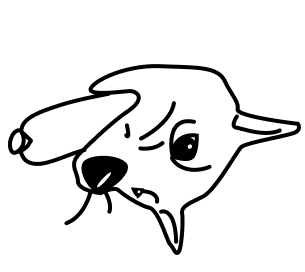
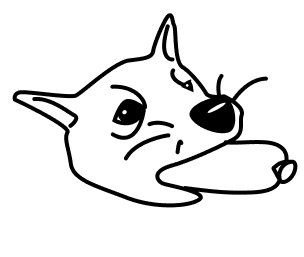
working sausages v2

Changed region(s): [[0.0296, 0.0311, 1.0, 0.9339], [0.2072, 0.8093, 0.2368, 0.8405]]

diff --git a/src/components/Saucisse.js b/src/components/Saucisse.js
@@ -17,7 +17,8 @@ export function Saucisse() {
         Bodies = Matter.Bodies,
         Render = Matter.Render,
         Vertices = Matter.Vertices,
-        Common = Matter.Common
+        Common = Matter.Common,
+        Events = Matter.Events
 
     Common.setDecomp(require("poly-decomp"))
 
@@ -45,15 +46,102 @@ export function Saucisse() {
         Matter.Runner.run(engine)
         Matter.Render.run(render)
 
-        var group = Body.nextGroup(true)
+        // var group = Body.nextGroup(true)
 
-        var hongery = Bodies.rectangle(200, 200, 140, 160, {
+        // var hongery = Bodies.rectangle(200, 200, 140, 160, {
+        //     isStatic: false,
+
+        //     render: {
+        //         sprite: {
+        //             yOffset: -0.02,
+        //             // xOffset: 0.241,
+        //             xScale: 0.5,
+        //             yScale: 0.5,
+        //             texture: doggo,
+        //         },
+        //     },
+        // })
+
+        // var ropeA = Composites.stack(-1200, 0, 16, 1, 1, 1, function (x, y) {
+        //     return Bodies.rectangle(-1200, y, 109, 100, {
+        //         collisionFilter: { group: group },
+        //         frictionAir: 0.05,
+
+        //         friction: 0.7,
+
+        //         density: 0.004,
+        //         render: {
+        //             sprite: {
+        //                 yOffset: 0.25,
+        //                 xScale: 0.5,
+        //                 yScale: 0.5,
+        //                 texture: sausage,
+        //             },
+        //         },
+        //     })
+        // })
+
+        // ropeA = Matter.Composite.add(ropeA, hongery)
+
+        // Composites.chain(ropeA, 0.5, 0, -0.5, 0, {
+        //     stiffness: 0.9,
+        //     length: 0,
+        //     render: { type: "line", strokeStyle: "#000", lineWidth: 2 },
+        // })
+
+        // Composite.add(world, [
+        //     ropeA,
+        //     // Constraint.create({
+        //     //     bodyB: ropeA.bodies[0],
+        //     //     pointA: { x: 1250, y: 700 },
+        //     //     length: 0,
+        //     //     stiffness: 0.6,
+        //     //     render: {
+        //     //         visible: false,
+        //     //     },
+        //     // }),
+        //     // Constraint.create({
+        //     //     bodyB: ropeA.bodies[ropeA.bodies.length - 1],
+        //     //     pointA: { x: 200, y: 0 },
+        //     //     length: 0,
+        //     //     stiffness: 0.6,
+        //     //     render: {
+        //     //         visible: false,
+        //     //     },
+        //     // }),
+        //     Constraint.create({
+        //         pointA: { x: 1250, y: 700 },
+        //         bodyB: ropeA.bodies[0],
+        //         pointB: { x: 25, y: 0 },
+        //         length: 2,
+        //         stiffness: 0.2,
+        //         render: {
+        //             visible: false,
+        //         },
+        //     }),
+        //     Constraint.create({
+        //         frictionAir: 0.07,
+        //         density: 0.004,
+        //         pointA: { x: 200, y: -70 },
+        //         bodyB: ropeA.bodies[ropeA.bodies.length - 1],
+        //         pointB: { x: -20, y: 0 },
+        //         length: 0.01,
+        //         stiffness: 0.9,
+        //         render: {
+        //             visible: false,
+        //         },
+        //     }),
+        // ])
+
+        // engine.timing.timeScale = 0.01
+
+        var hongery = Bodies.rectangle(0, 0, 200, 160, {
             isStatic: false,
 
             render: {
                 sprite: {
-                    yOffset: -0.02,
-                    // xOffset: 0.241,
+                    yOffset: 0.16,
+                    xOffset: 0.075,
                     xScale: 0.5,
                     yScale: 0.5,
                     texture: doggo,
@@ -61,71 +149,51 @@ export function Saucisse() {
             },
         })
 
-        var ropeA = Composites.stack(-900, 250, 16, 1, 1, 1, function (x, y) {
-            return Bodies.rectangle(x, y, 109, 53, {
+        var group = Body.nextGroup(true)
+
+        var bridge = Composites.stack(150, 290, 16, 1, 0, 0, function (x, y) {
+            return Bodies.rectangle(x, y, 180, 300, {
                 collisionFilter: { group: group },
+                density: 0.005,
                 frictionAir: 0.05,
-
-                friction: 0.7,
-
-                density: 0.004,
                 render: {
                     sprite: {
-                        yOffset: 0.25,
-                        xScale: 0.5,
+                        yOffset: -0.05,
                         yScale: 0.5,
+                        xScale: 0.5,
                         texture: sausage,
                     },
                 },
             })
         })
 
-        ropeA = Matter.Composite.add(ropeA, hongery)
+        bridge.bodies.unshift(hongery)
 
-        Composites.chain(ropeA, 0.5, 0, -0.5, 0, {
+        Composites.chain(bridge, 0.3, 0, -0.3, 0, {
             stiffness: 0.9,
             length: 0,
             render: { type: "line", strokeStyle: "#000", lineWidth: 2 },
         })
 
         Composite.add(world, [
-            ropeA,
-            // Constraint.create({
-            //     bodyB: ropeA.bodies[0],
-            //     pointA: { x: 1250, y: 700 },
-            //     length: 0,
-            //     stiffness: 0.6,
-            //     render: {
-            //         visible: false,
-            //     },
-            // }),
-            // Constraint.create({
-            //     bodyB: ropeA.bodies[ropeA.bodies.length - 1],
-            //     pointA: { x: 200, y: 0 },
-            //     length: 0,
-            //     stiffness: 0.6,
-            //     render: {
-            //         visible: false,
-            //     },
-            // }),
+            bridge,
+
             Constraint.create({
-                pointA: { x: 1250, y: 700 },
-                bodyB: ropeA.bodies[0],
+                pointA: { x: 140, y: -70 },
+                bodyB: bridge.bodies[0],
                 pointB: { x: -25, y: 0 },
                 length: 2,
-                stiffness: 0.2,
+                stiffness: 0.7,
                 render: {
                     visible: false,
                 },
             }),
             Constraint.create({
-                frictionAir: 0.07,
-                density: 0.004,
-                pointA: { x: 200, y: -70 },
-                bodyB: ropeA.bodies[ropeA.bodies.length - 1],
-                pointB: { x: 20, y: 20 },
-                length: 0.01,
-                stiffness: 0.9,
+                pointA: { x: 1300, y: 1000 },
+                bodyB: bridge.bodies[bridge.bodies.length - 1],
+                pointB: { x: 25, y: 0 },
+                length: 2,
+                stiffness: 0.7,
                 render: {
                     visible: false,
                 },
@@ -155,6 +223,7 @@ export function Saucisse() {
         )
 
         World.add(world, mouseConstraint)
+        render.mouse = mouse
     }, [
         Bodies,
         Body,
